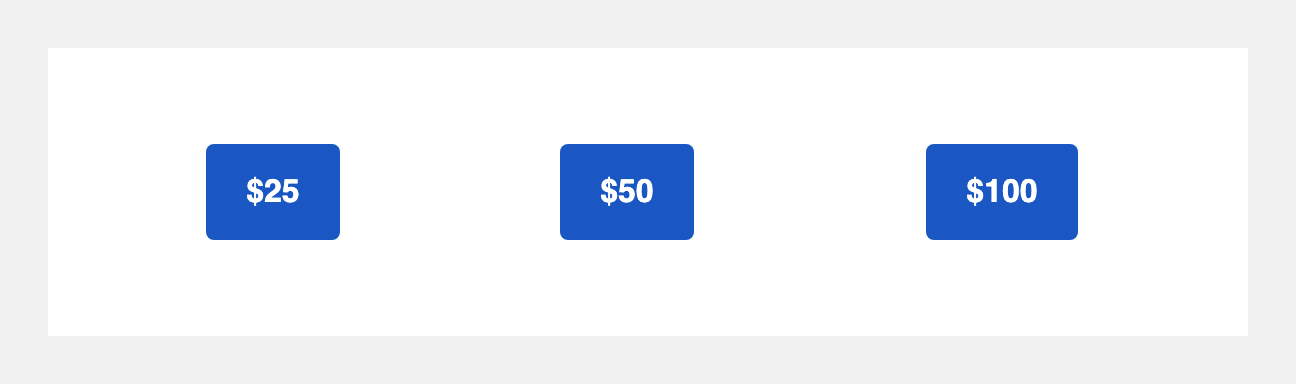
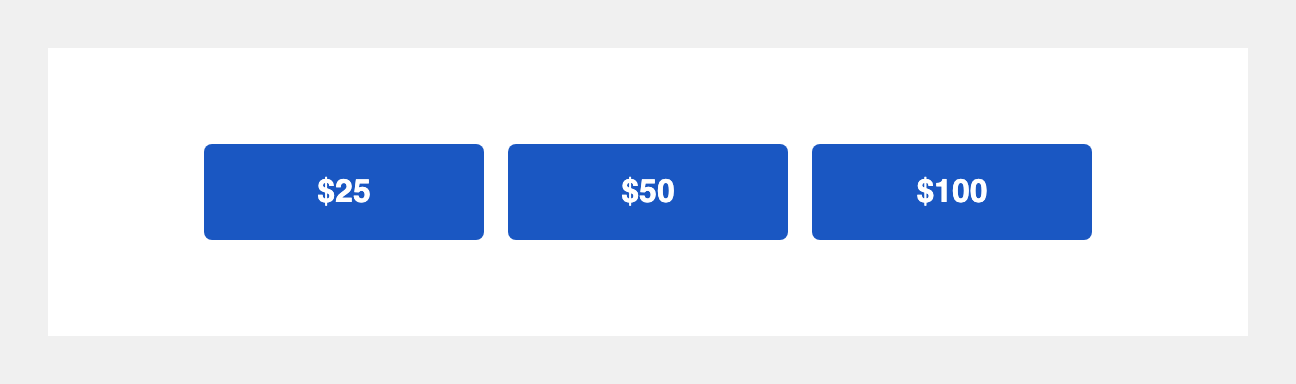
tighten donation-array spacing — uniform 140px buttons
Previously: outer table at width:100% spread the three TDs evenly
across 600px, and the non-Outlook <a> was content-sized (~50px for
'$25'), so buttons looked floating far apart with small labels.

Now: outer table shrink-wraps to content, <a> has explicit width:140px
matching the VML width for Outlook parity. Cell padding tightened to
6px so buttons sit close together as a clear three-button group.

Changed region(s): [[0.463, 0.375, 0.8025, 0.625], [0.1852, 0.375, 0.4321, 0.625], [0.8333, 0.375, 0.8642, 0.625]]

diff --git a/blocks/donation-array/1-basic.html b/blocks/donation-array/1-basic.html
@@ -5,15 +5,15 @@
     2. Amounts: change the &amount= URL parameter AND the visible label for each button
     3. Subdomain: replace yourorg.actionkit.com with your org's AK subdomain (3 places)
 -->
-<table role="presentation" cellspacing="0" cellpadding="0" border="0" align="center" style="margin: 24px auto; width: 100%; max-width: 600px;">
+<table role="presentation" cellspacing="0" cellpadding="0" border="0" align="center" style="margin: 24px auto;">
   <tr>
 
     <!-- Button 1: $25 -->
-    <td align="center" valign="top" style="padding: 0 4px;">
+    <td align="center" valign="top" style="padding: 0 6px;">
       <!--[if mso]>
       <v:roundrect xmlns:v="urn:schemas-microsoft-com:vml" xmlns:w="urn:schemas-microsoft-com:office:word"
         href="https://yourorg.actionkit.com/donate/YOUR_DONATION_PAGE/?amount=25&amp;prefill=1"
-        style="height:48px; v-text-anchor:middle; width:180px;"
+        style="height:48px; v-text-anchor:middle; width:140px;"
         arcsize="8%"
         stroke="f"
         fillcolor="#1a57c2">
@@ -35,7 +35,7 @@
            font-weight: bold;
            line-height: 48px;
            min-height: 48px;
-           padding: 0 20px;
+           width: 140px;
            text-align: center;
            text-decoration: none;
            -webkit-text-size-adjust: none;
@@ -45,11 +45,11 @@
     </td>
 
     <!-- Button 2: $50 -->
-    <td align="center" valign="top" style="padding: 0 4px;">
+    <td align="center" valign="top" style="padding: 0 6px;">
       <!--[if mso]>
       <v:roundrect xmlns:v="urn:schemas-microsoft-com:vml" xmlns:w="urn:schemas-microsoft-com:office:word"
         href="https://yourorg.actionkit.com/donate/YOUR_DONATION_PAGE/?amount=50&amp;prefill=1"
-        style="height:48px; v-text-anchor:middle; width:180px;"
+        style="height:48px; v-text-anchor:middle; width:140px;"
         arcsize="8%"
         stroke="f"
         fillcolor="#1a57c2">
@@ -71,7 +71,7 @@
            font-weight: bold;
            line-height: 48px;
            min-height: 48px;
-           padding: 0 20px;
+           width: 140px;
            text-align: center;
            text-decoration: none;
            -webkit-text-size-adjust: none;
@@ -81,11 +81,11 @@
     </td>
 
     <!-- Button 3: $100 -->
-    <td align="center" valign="top" style="padding: 0 4px;">
+    <td align="center" valign="top" style="padding: 0 6px;">
       <!--[if mso]>
       <v:roundrect xmlns:v="urn:schemas-microsoft-com:vml" xmlns:w="urn:schemas-microsoft-com:office:word"
         href="https://yourorg.actionkit.com/donate/YOUR_DONATION_PAGE/?amount=100&amp;prefill=1"
-        style="height:48px; v-text-anchor:middle; width:180px;"
+        style="height:48px; v-text-anchor:middle; width:140px;"
         arcsize="8%"
         stroke="f"
         fillcolor="#1a57c2">
@@ -107,7 +107,7 @@
            font-weight: bold;
            line-height: 48px;
            min-height: 48px;
-           padding: 0 20px;
+           width: 140px;
            text-align: center;
            text-decoration: none;
            -webkit-text-size-adjust: none;
